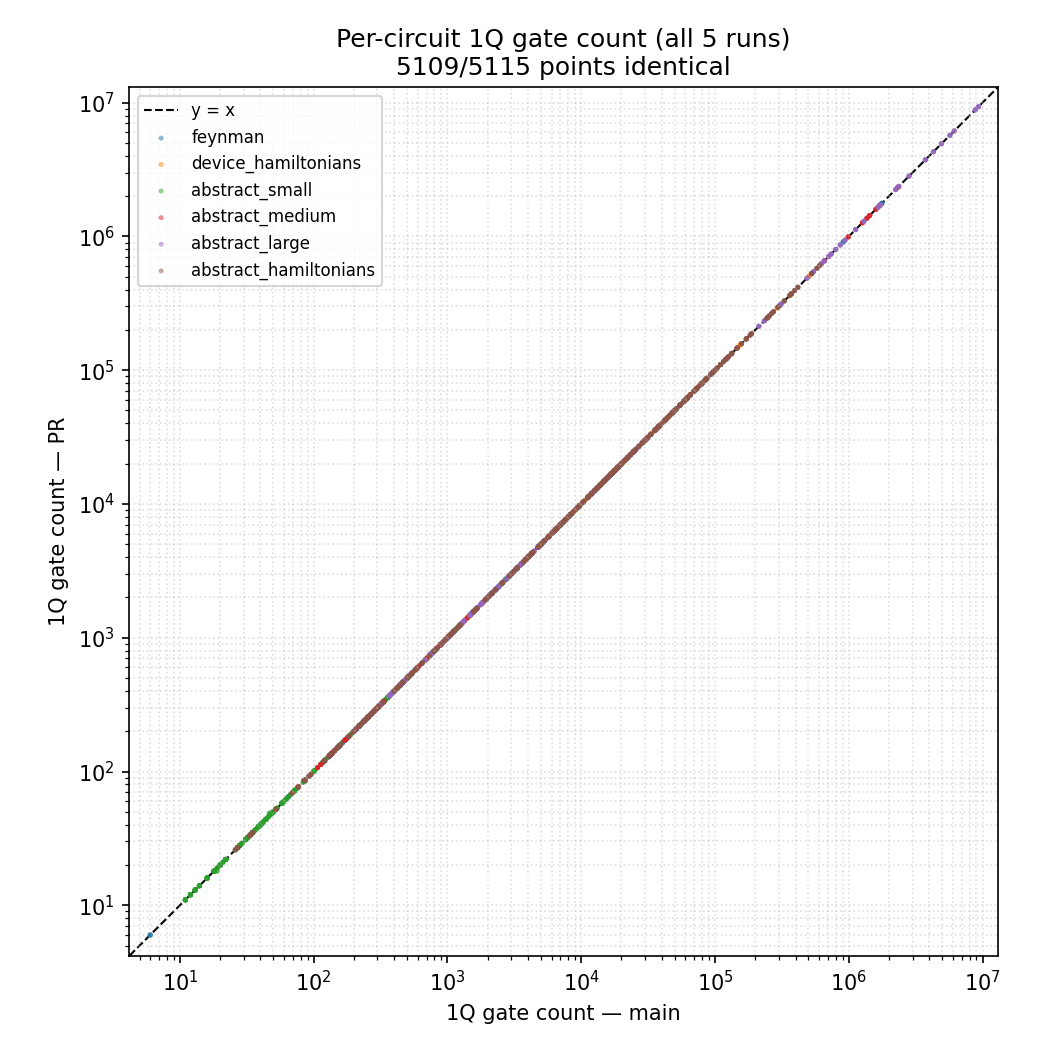
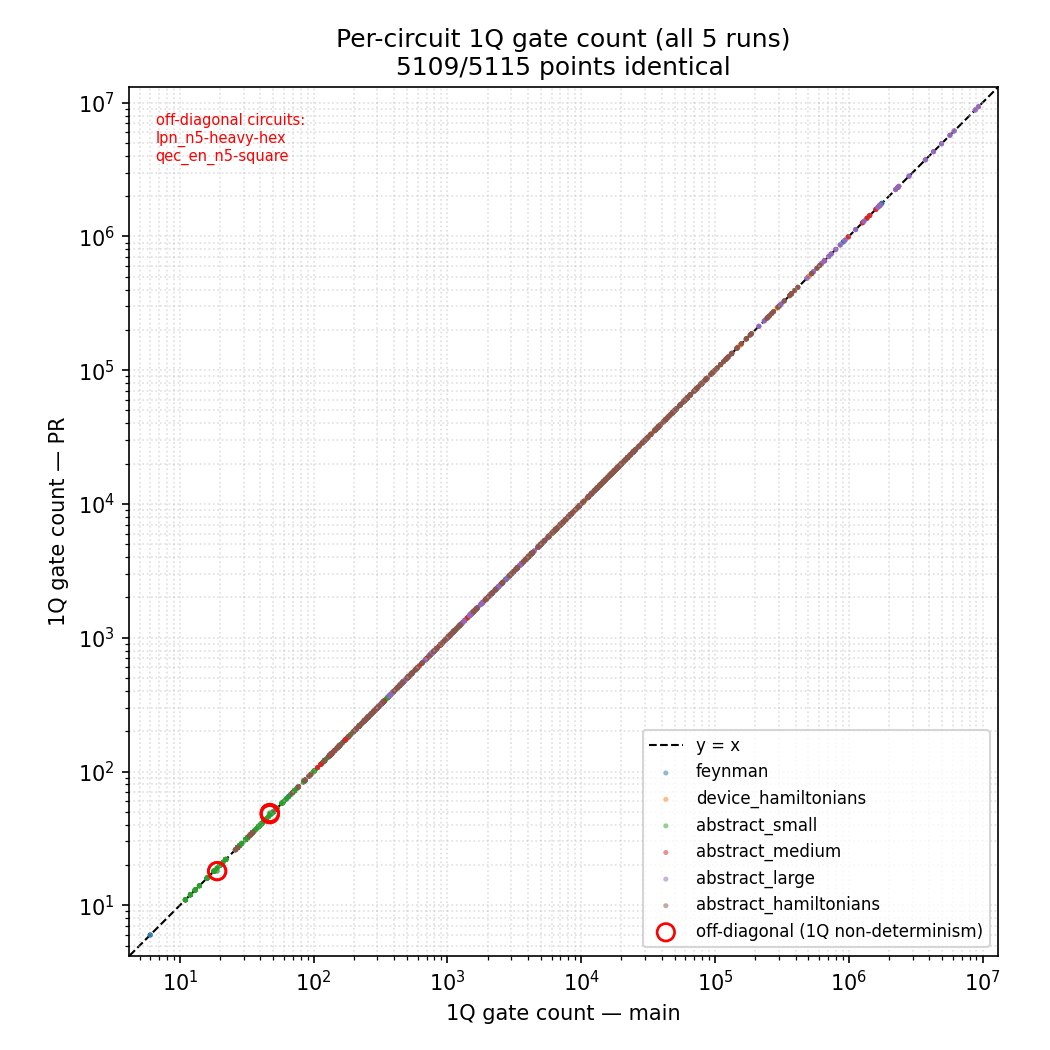
pr16157_rebased: rotate iteration labels, highlight 1Q non-determinism points, note separate PR
- iteration_delta: rotated x-labels (no name/n= overlap)
- scatter_1q: ring-highlight the off-diagonal points + list the 4 circuits
- PR_DESCRIPTION Issues: attribute off-diagonal 1Q points to those circuits; will open separate PR

diff --git a/investigation/outputs/pr16157_rebased/scripts/plot_pr_charts.py b/investigation/outputs/pr16157_rebased/scripts/plot_pr_charts.py
@@ -128,15 +128,16 @@ ax.legend(); ax.grid(axis="y", which="both", ls=":", alpha=0.4)
 fig.tight_layout(); fig.savefig(f"{CH}/runtime_by_group.png", dpi=150); plt.close(fig)
 
 # === 4. gate/depth all-point scatters =====================================
-def scatter_metric(keyname, label, fname):
+def scatter_metric(keyname, label, fname, highlight=False):
     fig, ax = plt.subplots(figsize=(7, 7))
     allp = []
-    off = 0
-    for (g, _), c in circ.items():
+    offpts = []  # (a, b, circuit_id) for points off the diagonal
+    for (g, cid), c in circ.items():
         for a, b in c[keyname]:
             if a > 0 and b > 0:
                 allp.append((g, a, b))
-                off += a != b
+                if a != b:
+                    offpts.append((a, b, cid))
     lo, hi = min(min(a, b) for _, a, b in allp) * 0.7, max(max(a, b) for _, a, b in allp) * 1.4
     ax.plot([lo, hi], [lo, hi], "k--", lw=1, label="y = x", zorder=1)
     for g in GROUPS:
@@ -144,15 +145,22 @@ def scatter_metric(keyname, label, fname):
         if gp:
             ax.scatter([a for a, _ in gp], [b for _, b in gp], s=6, alpha=0.5,
                        color=COLOR[g], edgecolor="none", label=g)
+    if highlight and offpts:
+        ax.scatter([a for a, _, _ in offpts], [b for _, b, _ in offpts], s=70,
+                   facecolors="none", edgecolors="red", linewidths=1.3, zorder=6,
+                   label="off-diagonal (1Q non-determinism)")
+        names = sorted(set(cid for _, _, cid in offpts))
+        ax.text(0.03, 0.97, "off-diagonal circuits:\n" + "\n".join(names),
+                transform=ax.transAxes, va="top", ha="left", fontsize=7, color="red")
     ax.set_xscale("log"); ax.set_yscale("log"); ax.set_xlim(lo, hi); ax.set_ylim(lo, hi)
     ax.set_aspect("equal"); ax.set_xlabel(f"{label} — main"); ax.set_ylabel(f"{label} — PR")
-    ax.set_title(f"Per-circuit {label} (all 5 runs)\n{len(allp)-off}/{len(allp)} points identical")
-    ax.grid(True, which="both", ls=":", alpha=0.4); ax.legend(fontsize=8, loc="upper left")
+    ax.set_title(f"Per-circuit {label} (all 5 runs)\n{len(allp)-len(offpts)}/{len(allp)} points identical")
+    ax.grid(True, which="both", ls=":", alpha=0.4); ax.legend(fontsize=8, loc="lower right")
     fig.tight_layout(); fig.savefig(f"{CH}/{fname}", dpi=150); plt.close(fig)
-    return off
+    return len(offpts)
 
 off2q = scatter_metric("2q", "2Q gate count", "scatter_2q.png")
-off1q = scatter_metric("1q", "1Q gate count", "scatter_1q.png")
+off1q = scatter_metric("1q", "1Q gate count", "scatter_1q.png", highlight=True)
 offdp = scatter_metric("dp", "circuit depth", "scatter_depth.png")
 
 # === stats for the draft ==================================================

diff --git a/investigation/outputs/pr16157_rebased/scripts/plot_iter_delta.py b/investigation/outputs/pr16157_rebased/scripts/plot_iter_delta.py
@@ -48,16 +48,14 @@ for g in GROUPS:
     if not xs:
         continue
     xticks.append(sum(xs) / len(xs))
-    # stagger every other label down a line so narrow neighbors don't overlap
-    prefix = "\n" if len(xlabels) % 2 == 1 else ""
-    xlabels.append(f"{prefix}{g}\n(n={len(xs)})")
+    xlabels.append(f"{g} (n={len(xs)})")
     running = max(xs)
     ax.axvline(running + 0.5, color="0.85", lw=0.7, zorder=0)
 ax.set_yticks([0, -1])
 ax.set_yticklabels(["0\n(same)", "−1\n(one fewer)"])
 ax.set_ylim(-1.6, 0.6)
 ax.set_xticks(xticks)
-ax.set_xticklabels(xlabels, fontsize=8)
+ax.set_xticklabels(xlabels, rotation=20, ha="right", fontsize=8)
 ax.set_ylabel("PR − main\n(loop iterations)")
 n = len(keys)
 ax.set_title(f"Per-circuit change in Level-2 loop iterations (PR − main), n={n}\n"

diff --git a/investigation/outputs/pr16157_rebased/PR_DESCRIPTION.md b/investigation/outputs/pr16157_rebased/PR_DESCRIPTION.md
@@ -107,6 +107,10 @@ plot are not mistaken for a PR-induced change.
 
 ![1Q gate count, main vs PR — only the 4 non-determinism circuits leave the diagonal](https://raw.githubusercontent.com/hfwen0502/qiskit/pass-manager-investigation/investigation/outputs/pr16157_rebased/images/scatter_1q.png)
 
+The red-ringed off-diagonal points above come entirely from those four circuits; every
+other point is on the diagonal. This non-determinism is independent of this PR, so we will
+**open a separate PR** to address it (root-cause analysis in `NONDETERMINISM_ISSUE.md`).
+
 ## AI / LLM disclosure
 
 - [x] I used **Claude Code (Claude Opus)** to help with the rebase onto current `main` and
